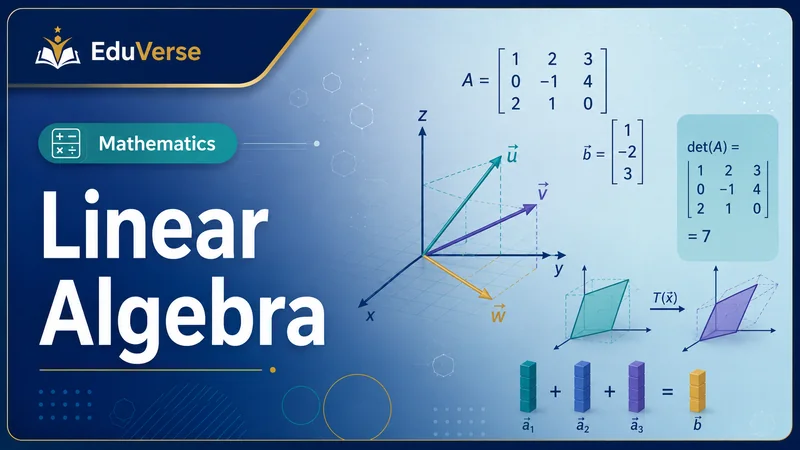
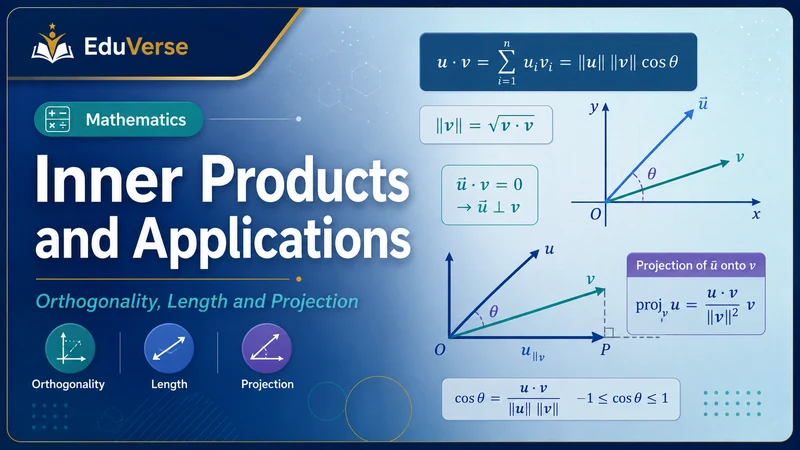
Upload more thumbnail

diff --git a/src/data/chapter-thumbnails.ts b/src/data/chapter-thumbnails.ts
@@ -2,55 +2,63 @@ import { slugify } from "@/lib/slug";
 
 const mathematicsChapterThumbnails: Record<string, string> = {
   "number-foundations/whole-numbers-and-arithmetic": "/mathematics-thumbnails/whole-numbers-and-arithmetic.webp",
+  "number-foundations/fractions-and-decimals": "/mathematics-thumbnails/fractions-and-decimals.webp",
+  "number-foundations/percentages-ratio-and-proportion": "/mathematics-thumbnails/percentages-ratio-and-proportion.webp",
+  "number-foundations/exponents-roots-and-scientific-notation": "/mathematics-thumbnails/exponents-roots-and-scientific-notation.webp",
+  "number-foundations/measurement-and-units": "/mathematics-thumbnails/measurement-and-units.webp",
+  "pre-algebra/integers-and-rational-numbers": "/mathematics-thumbnails/integers-and-rational-numbers.webp",
+  "pre-algebra/factors-multiples-and-primes": "/mathematics-thumbnails/factors-multiples-and-primes.webp",
   "pre-algebra/introduction-to-algebraic-thinking": "/mathematics-thumbnails/introduction-to-algebraic-thinking.webp",
-  "geometry/foundations-lines-and-angles": "/mathematics-thumbnails/foundations-lines-and-angles.webp",
-  "trigonometry/foundations-of-trigonometry": "/mathematics-thumbnails/foundations-of-trigonometry.webp",
   "pre-algebra/the-coordinate-plane-and-data-basics": "/mathematics-thumbnails/the-coordinate-plane-and-data-basics.webp",
-  "pre-calculus/counting-and-combinatorics": "/mathematics-thumbnails/counting-and-combinatorics.webp",
-  "calculus/functions": "/mathematics-thumbnails/functions.webp",
-  "linear-algebra/inner-products-and-applications": "/mathematics-thumbnails/inner-products-and-applications.webp",
-  "differential-equations/first-order-equations": "/mathematics-thumbnails/first-order-equations.webp",
-  "probability-and-combinatorics/random-variables-and-distributions": "/mathematics-thumbnails/random-variables-and-distributions.webp",
-  "multivariable-and-vector-calculus/integrals-and-vector-fields": "/mathematics-thumbnails/integrals-and-vector-fields.webp",
-  "multivariable-and-vector-calculus/partial-derivatives": "/mathematics-thumbnails/partial-derivatives.webp",
-  "numerical-and-applied-methods/numerical-methods": "/mathematics-thumbnails/numerical-methods.webp",
-  "discrete-mathematics/graph-theory": "/mathematics-thumbnails/graph-theory.webp",
-  "number-theory/primes-and-cryptography": "/mathematics-thumbnails/primes-and-cryptography.webp",
-  "real-analysis/the-real-numbers-and-sequences": "/mathematics-thumbnails/the-real-numbers-and-sequences.webp",
-  "complex-analysis/complex-functions": "/mathematics-thumbnails/complex-functions.webp",
-  "abstract-algebra/group-theory": "/mathematics-thumbnails/group-theory.webp",
-  "discrete-mathematics/logic-and-proof": "/mathematics-thumbnails/logic-and-proof.webp",
-  "numerical-and-applied-methods/optimization-and-modeling": "/mathematics-thumbnails/optimization-and-modeling.webp",
+  "algebra/linear-equations-and-inequalities": "/mathematics-thumbnails/linear-equations-and-inequalities.webp",
+  "algebra/quadratic-equations": "/mathematics-thumbnails/quadratic-equations.webp",
+  "algebra/sequences-and-series": "/mathematics-thumbnails/sequences-and-series.webp",
+  "geometry/foundations-lines-and-angles": "/mathematics-thumbnails/foundations-lines-and-angles.webp",
+  "geometry/circles": "/mathematics-thumbnails/circles.webp",
   "geometry/mensuration": "/mathematics-thumbnails/mensuration.webp",
   "geometry/transformations-and-symmetry": "/mathematics-thumbnails/transformations-and-symmetry.webp",
+  "trigonometry/foundations-of-trigonometry": "/mathematics-thumbnails/foundations-of-trigonometry.webp",
+  "trigonometry/trigonometric-graphs-and-applications-of-radian-measure": "/mathematics-thumbnails/trigonometric-graphs-and-applications-of-radian-measure.webp",
+  "trigonometry/trigonometric-identities": "/mathematics-thumbnails/trigonometric-identities.webp",
+  "trigonometry/trigonometric-equations": "/mathematics-thumbnails/trigonometric-equations.webp",
+  "trigonometry/polar-coordinates-and-applications": "/mathematics-thumbnails/polar-coordinates-and-applications.webp",
+  "trigonometry/parametric-equations": "/mathematics-thumbnails/parametric-equations.webp",
   "coordinate-and-analytic-geometry/straight-lines": "/mathematics-thumbnails/straight-lines.webp",
+  "coordinate-and-analytic-geometry/conic-sections": "/mathematics-thumbnails/conic-sections.webp",
   "coordinate-and-analytic-geometry/vectors": "/mathematics-thumbnails/vectors-coordinate-analytic.webp",
   "pre-calculus/advanced-functions": "/mathematics-thumbnails/advanced-functions.webp",
   "pre-calculus/complex-numbers": "/mathematics-thumbnails/complex-numbers.webp",
   "pre-calculus/matrices-and-determinants": "/mathematics-thumbnails/matrices-and-determinants.webp",
+  "pre-calculus/counting-and-combinatorics": "/mathematics-thumbnails/counting-and-combinatorics.webp",
   "pre-calculus/proof-induction-and-the-binomial-theorem": "/mathematics-thumbnails/proof-induction-and-the-binomial-theorem.webp",
-  "linear-algebra/systems-matrices-and-determinants": "/mathematics-thumbnails/systems-matrices-and-determinants.webp",
-  "linear-algebra/vector-spaces": "/mathematics-thumbnails/vector-spaces.webp",
-  "algebra/sequences-and-series": "/mathematics-thumbnails/sequences-and-series.webp",
-  "calculus/infinite-sequences-and-series": "/mathematics-thumbnails/infinite-sequences-and-series.webp",
-  "calculus/calculus-reference-and-proof-appendices": "/mathematics-thumbnails/calculus-reference-and-proof-appendices.webp",
-  "linear-algebra/eigenvalues-and-eigenvectors": "/mathematics-thumbnails/eigenvalues-and-eigenvectors.webp",
-  "algebra/linear-equations-and-inequalities": "/mathematics-thumbnails/linear-equations-and-inequalities.webp",
-  "algebra/quadratic-equations": "/mathematics-thumbnails/quadratic-equations.webp",
-  "trigonometry/polar-coordinates-and-applications": "/mathematics-thumbnails/polar-coordinates-and-applications.webp",
-  "probability-and-combinatorics/counting-principles": "/mathematics-thumbnails/counting-principles.webp",
-  "probability-and-combinatorics/probability-foundations": "/mathematics-thumbnails/probability-foundations.webp",
-  "coordinate-and-analytic-geometry/conic-sections": "/mathematics-thumbnails/conic-sections.webp",
-  "geometry/circles": "/mathematics-thumbnails/circles.webp",
-  "trigonometry/parametric-equations": "/mathematics-thumbnails/parametric-equations.webp",
-  "trigonometry/trigonometric-identities": "/mathematics-thumbnails/trigonometric-identities.webp",
-  "trigonometry/trigonometric-graphs-and-applications-of-radian-measure": "/mathematics-thumbnails/trigonometric-graphs-and-applications-of-radian-measure.webp",
-  "trigonometry/trigonometric-equations": "/mathematics-thumbnails/trigonometric-equations.webp",
+  "calculus/functions": "/mathematics-thumbnails/functions.webp",
   "calculus/limits-and-continuity": "/mathematics-thumbnails/limits-and-continuity.webp",
   "calculus/derivatives": "/mathematics-thumbnails/derivatives.webp",
   "calculus/applications-of-derivatives": "/mathematics-thumbnails/applications-of-derivatives.webp",
   "calculus/integrals": "/mathematics-thumbnails/integrals.webp",
   "calculus/applications-of-definite-integrals": "/mathematics-thumbnails/applications-of-definite-integrals.webp",
+  "calculus/infinite-sequences-and-series": "/mathematics-thumbnails/infinite-sequences-and-series.webp",
+  "calculus/calculus-reference-and-proof-appendices": "/mathematics-thumbnails/calculus-reference-and-proof-appendices.webp",
+  "multivariable-and-vector-calculus/partial-derivatives": "/mathematics-thumbnails/partial-derivatives.webp",
+  "multivariable-and-vector-calculus/integrals-and-vector-fields": "/mathematics-thumbnails/integrals-and-vector-fields.webp",
+  "linear-algebra/systems-matrices-and-determinants": "/mathematics-thumbnails/systems-matrices-and-determinants.webp",
+  "linear-algebra/vector-spaces": "/mathematics-thumbnails/vector-spaces.webp",
+  "linear-algebra/eigenvalues-and-eigenvectors": "/mathematics-thumbnails/eigenvalues-and-eigenvectors.webp",
+  "linear-algebra/inner-products-and-applications": "/mathematics-thumbnails/inner-products-and-applications.webp",
+  "differential-equations/first-order-equations": "/mathematics-thumbnails/first-order-equations.webp",
+  "differential-equations/higher-order-linear-equations": "/mathematics-thumbnails/higher-order-linear-equations.webp",
+  "differential-equations/transforms-and-systems": "/mathematics-thumbnails/transforms-and-systems.webp",
+  "probability-and-combinatorics/counting-principles": "/mathematics-thumbnails/counting-principles.webp",
+  "probability-and-combinatorics/probability-foundations": "/mathematics-thumbnails/probability-foundations.webp",
+  "probability-and-combinatorics/random-variables-and-distributions": "/mathematics-thumbnails/random-variables-and-distributions.webp",
+  "discrete-mathematics/logic-and-proof": "/mathematics-thumbnails/logic-and-proof.webp",
+  "discrete-mathematics/graph-theory": "/mathematics-thumbnails/graph-theory.webp",
+  "number-theory/primes-and-cryptography": "/mathematics-thumbnails/primes-and-cryptography.webp",
+  "real-analysis/the-real-numbers-and-sequences": "/mathematics-thumbnails/the-real-numbers-and-sequences.webp",
+  "abstract-algebra/group-theory": "/mathematics-thumbnails/group-theory.webp",
+  "complex-analysis/complex-functions": "/mathematics-thumbnails/complex-functions.webp",
+  "numerical-and-applied-methods/numerical-methods": "/mathematics-thumbnails/numerical-methods.webp",
+  "numerical-and-applied-methods/optimization-and-modeling": "/mathematics-thumbnails/optimization-and-modeling.webp",
 };
 
 export function getChapterThumbnail(

diff --git a/MATHEMATICS-LANDSCAPE-THUMBNAIL-UPDATE.md b/MATHEMATICS-LANDSCAPE-THUMBNAIL-UPDATE.md
@@ -1,0 +1,53 @@
+# Mathematics Landscape Thumbnail Update
+
+- Mathematics chapters: **78**
+- Custom landscape thumbnails now mapped: **58**
+- Newly integrated or replaced in this update: **20**
+- Chapters still using the existing fallback card: **20**
+- Thumbnail output format: **800 × 450 WebP (16:9 landscape)**
+
+## Newly integrated or replaced
+
+- number-foundations/whole-numbers-and-arithmetic
+- number-foundations/fractions-and-decimals
+- number-foundations/percentages-ratio-and-proportion
+- number-foundations/exponents-roots-and-scientific-notation
+- number-foundations/measurement-and-units
+- pre-algebra/integers-and-rational-numbers
+- pre-algebra/factors-multiples-and-primes
+- pre-algebra/introduction-to-algebraic-thinking
+- pre-algebra/the-coordinate-plane-and-data-basics
+- algebra/linear-equations-and-inequalities
+- linear-algebra/eigenvalues-and-eigenvectors
+- linear-algebra/inner-products-and-applications
+- differential-equations/first-order-equations
+- differential-equations/higher-order-linear-equations
+- differential-equations/transforms-and-systems
+- probability-and-combinatorics/counting-principles
+- probability-and-combinatorics/probability-foundations
+- probability-and-combinatorics/random-variables-and-distributions
+- discrete-mathematics/logic-and-proof
+- discrete-mathematics/graph-theory
+
+## Chapters still using fallback
+
+- Algebra → Polynomials and Factoring
+- Algebra → Functions and Graphs
+- Algebra → Exponentials and Logarithms
+- Geometry → Triangles and Congruence
+- Geometry → Quadrilaterals and Polygons
+- Trigonometry → Beyond Right Triangles
+- Trigonometry → Vectors
+- Calculus → Integrals and Transcendental Functions
+- Calculus → Techniques of Integration
+- Calculus → First-Order Differential Equations
+- Calculus → Parametric Equations and Polar Coordinates
+- Multivariable and Vector Calculus → Vectors and the Geometry of Space
+- Multivariable and Vector Calculus → Vector-Valued Functions and Motion in Space
+- Multivariable and Vector Calculus → Multiple Integrals
+- Discrete Mathematics → Recurrences and Generating Functions
+- Number Theory → Divisibility and Congruences
+- Real Analysis → Continuity and Differentiation, Rigorously
+- Real Analysis → Metric Spaces
+- Abstract Algebra → Rings and Fields
+- Complex Analysis → Complex Integration and Residues
